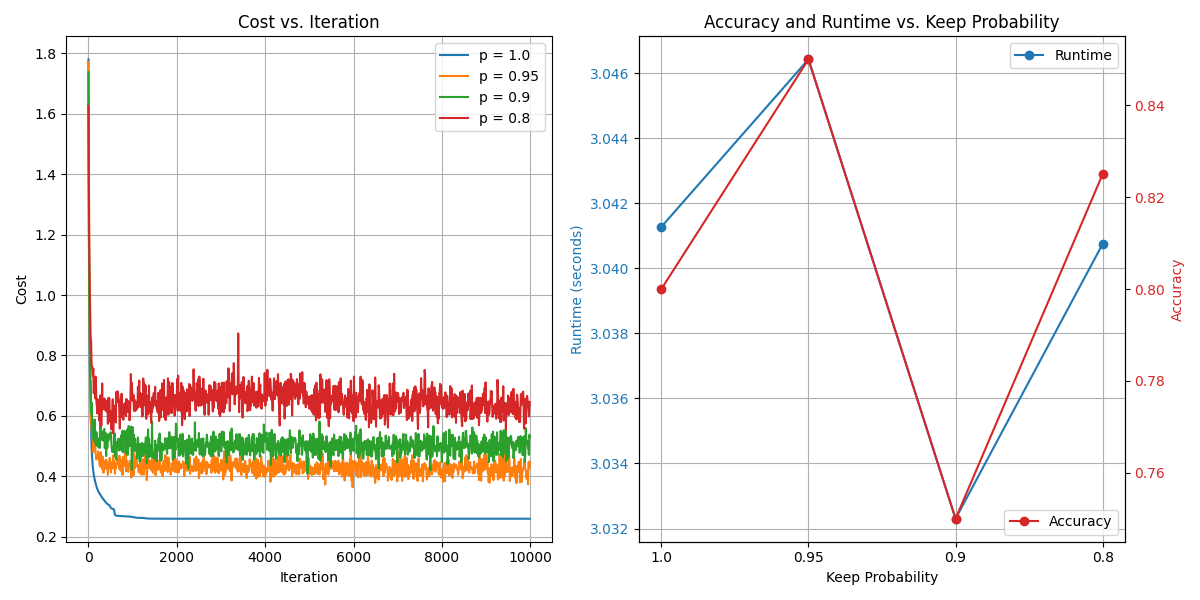
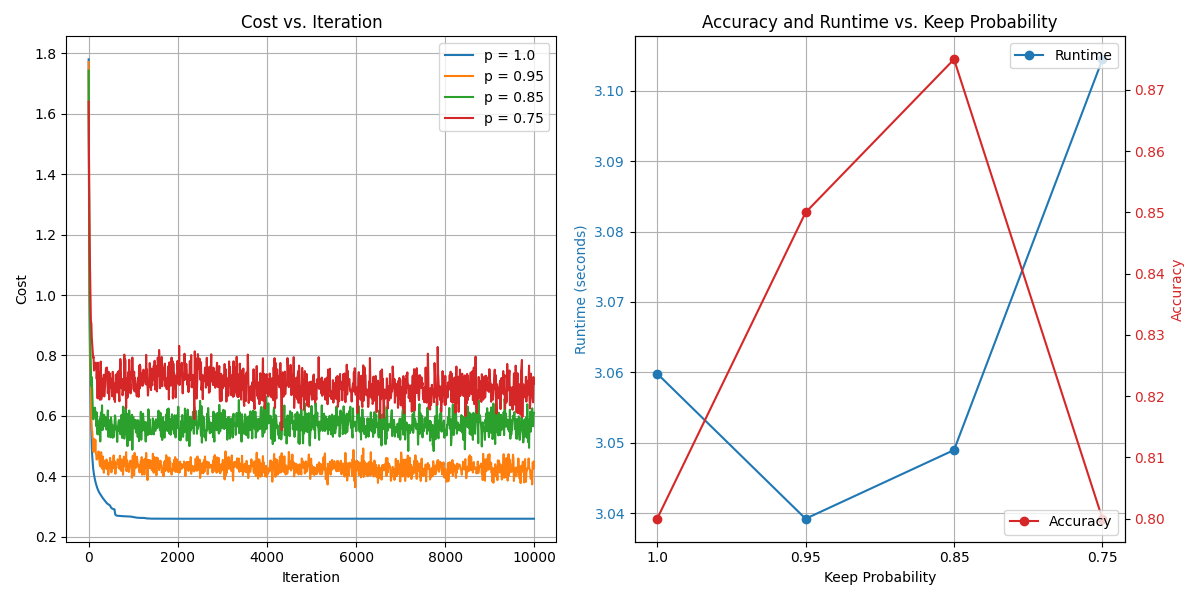
minor changes

diff --git a/dropout.py b/dropout.py
@@ -1,0 +1,104 @@
+import numpy as np
+import matplotlib.pyplot as plt
+import time
+
+from model import Perceptron
+from sklearn.datasets import make_classification
+from sklearn.model_selection import train_test_split
+
+# data generation
+
+X, y = make_classification(
+    n_samples=200,
+    n_classes=4,
+    n_clusters_per_class=2,
+    n_features=3,
+    n_informative=3,
+    n_redundant=0,
+    n_repeated=0,
+    class_sep=1.2,
+    random_state=42
+)
+
+X_train, X_test, y_train, y_test = train_test_split(X, y, test_size=0.2, random_state=42)
+X1, y1 = X_train.T, np.eye(int(np.max(y_train)) + 1)[y_train.flatten()].T
+X2, y2 = X_test.T, np.eye(int(np.max(y_test)) + 1)[y_test.flatten()].T
+print('X shape:', X1.shape, X2.shape)
+print('y shape:', y1.shape, y2.shape)
+
+# current model
+
+fig, axs = plt.subplots(1, 2, figsize=(12, 6))
+
+axs[0].set_title('Cost vs. Iteration')
+axs[0].set_xlabel('Iteration')
+axs[0].set_ylabel('Cost')
+axs[0].grid(True)
+
+axs[1].set_title('Accuracy and Runtime vs. Keep Probability')
+axs[1].set_xlabel('Keep Probability')
+axs[1].grid(True)
+
+accuracies = []
+runtimes = []
+
+lambdas_list = []
+values = np.arange(0, 1, 0.01)
+
+for value in values:
+    lambdas_list += [(value, value)]
+
+keep_prob_list = [1.0, 0.95, 0.85, 0.75]
+
+for i, keep_prob in enumerate(keep_prob_list):
+    start_time = time.time()
+
+    configuration = {
+        'type': 'classifier',
+        'units': [20, 13, 7, 5],
+        'activations': ['tanh'] * 4,
+        'alpha': 1e-2,
+        'lambda_1': 3e-1,
+        'lambda_2': 3e-1,
+        'keep_prob': keep_prob, 
+        'beta_1': 0.9,
+        'beta_2': 0.99,
+        'batches': 1,
+        'iterations': int(1e4),
+        'verbose': True
+    }
+
+    model = Perceptron(configuration)
+    model.train_model(X1, y1)
+    y_pred = model.predict_model(X2)
+
+    y_pred = np.eye(int(np.max(y_pred + 1)))[y_pred.flatten()].T
+    accuracy = 1 - (np.sum(np.abs(y2 - y_pred)) // 2) / y2.shape[1]
+    accuracies.append(accuracy)
+
+    end_time = time.time()
+    runtime = end_time - start_time
+    runtimes.append(runtime)
+
+    iterations = np.arange(0, len(model.costs) * 10, 10)
+    label = f'p = {keep_prob}'
+    axs[0].plot(iterations, model.costs, label=label)
+
+axs[0].legend()
+
+axs[1].plot(range(len(keep_prob_list)), runtimes, label='Runtime', marker='o')
+axs[1].set_ylabel('Runtime (seconds)', color='tab:blue')
+axs[1].tick_params(axis='y', labelcolor='tab:blue')
+
+axs2 = axs[1].twinx()
+axs2.plot(range(len(keep_prob_list)), accuracies, color='tab:red', label='Accuracy', marker='o')
+axs2.set_xticks(range(len(keep_prob_list)))
+axs2.set_xticklabels(['1.0', '0.95', '0.85', '0.75'])
+axs2.set_ylabel('Accuracy', color='tab:red')
+axs2.tick_params(axis='y', labelcolor='tab:red')
+
+axs[1].legend(loc='upper right')
+axs2.legend(loc='lower right')
+print(accuracies)
+plt.tight_layout()
+plt.show()
